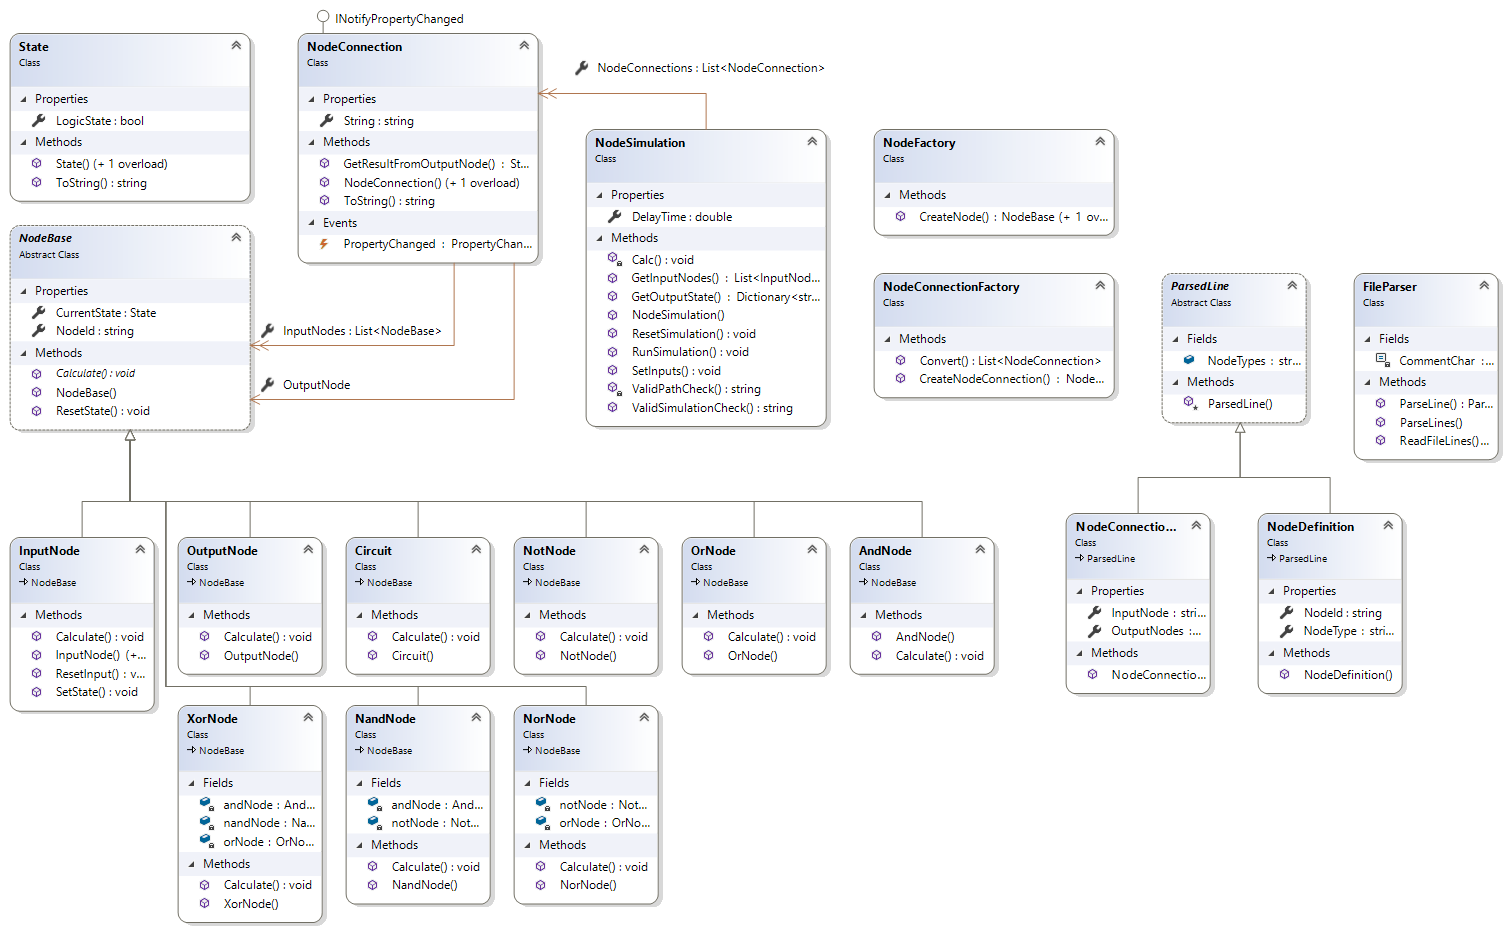
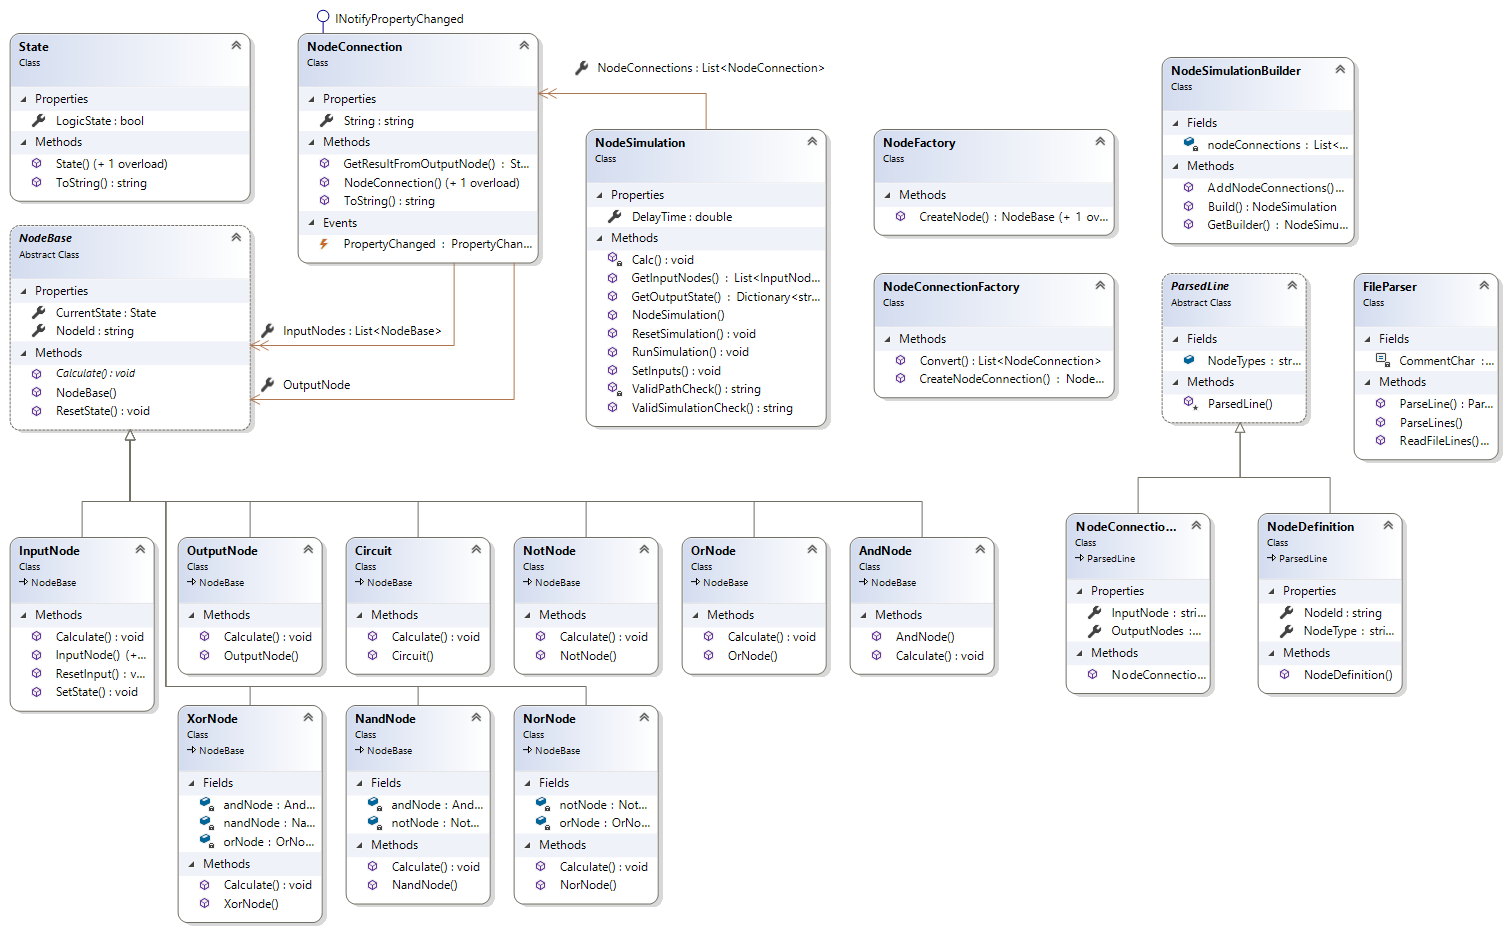
Updated

Changed region(s): [[0.7485, 0.0623, 0.9044, 0.2803]]

diff --git a/Library/Simulation/NodeSimulationBuilder.cs b/Library/Simulation/NodeSimulationBuilder.cs
@@ -1,0 +1,25 @@
+namespace DP1.Library.Simulation
+{
+    using System.Collections.Generic;
+
+    public class NodeSimulationBuilder
+    {
+        private List<NodeConnection> nodeConnections = new List<NodeConnection>();
+
+        public static NodeSimulationBuilder GetBuilder()
+        {
+            return new NodeSimulationBuilder();
+        }
+
+        public NodeSimulationBuilder AddNodeConnections(List<NodeConnection> nodeConnections)
+        {
+            this.nodeConnections.AddRange(nodeConnections);
+            return (NodeSimulationBuilder)this.MemberwiseClone();
+        }
+
+        public NodeSimulation Build()
+        {
+            return new NodeSimulation(this.nodeConnections);
+        }
+    }
+}

diff --git a/Dp1WpfApp/ViewModel/MainViewModel.cs b/Dp1WpfApp/ViewModel/MainViewModel.cs
@@ -101,7 +101,10 @@ namespace Dp1WpfApp.ViewModel
             var nodeConnections =
                 nodeConFactory.Convert(nodes, nodeConnectionDefinitions);
 
-            var sim = new NodeSimulation(nodeConnections);
+            var sim = NodeSimulationBuilder.GetBuilder()
+                        .AddNodeConnections(nodeConnections)
+                        .Build();
+
             var check = sim.ValidSimulationCheck();
             if (!string.IsNullOrWhiteSpace(check))
             {
